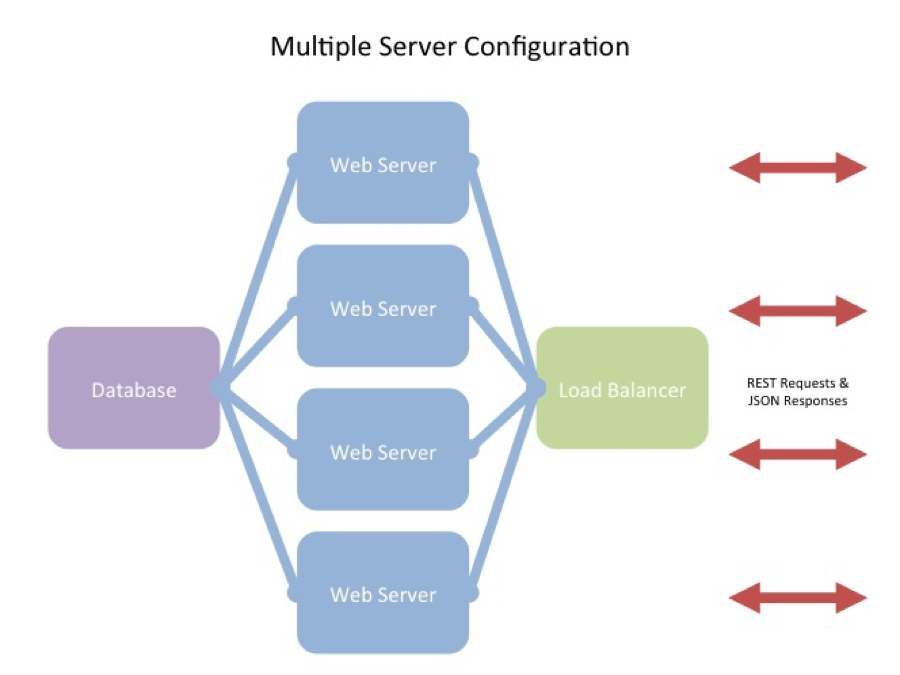
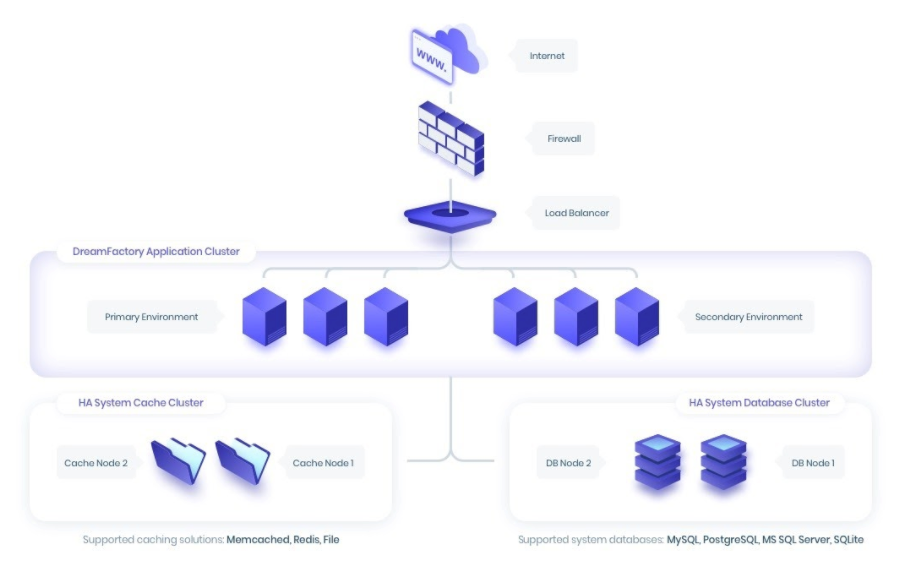
Added better load balance image, added developer README

diff --git a/docs/performance.md b/docs/performance.md
@@ -96,11 +96,17 @@ Finally, scroll down to the following section and uncomment `CACHE_DATABASE` and
     ## Which Redis client to use: predis or phpredis (PHP extension)
     #REDIS_CLIENT=predis
 
-You can leave CACHE_DATABASE set to 2. For the `REDIS_CLIENT` you can leave it set to predis if you've installed the predis/predis package (recommended). By default your Redis Database will be on 0, so be sure to `SELECT` whatever the number is you have set your `CACHE_DATABASE` equal to. Then you can start seeing the `KEYS` populate.
+You can leave `CACHE_DATABASE` set to 2. For the `REDIS_CLIENT` you can leave it set to predis if you've installed the predis/predis package (recommended). By default your Redis Database will be on 0, so be sure to `SELECT` whatever the number is you have set your `CACHE_DATABASE` equal to. Then you can start seeing the `KEYS` populate.
 
 ## Load Balancing Your DreamFactory Environment
 
 You can use a load balancer to distribute API requests among multiple servers. A load balancer can also perform health checks and remove an unhealthy server from the pool automatically. Most large server architectures include load balancers at several points throughout the infrastructure. You can cluster load balancers to avoid a single point of failure. DreamFactory is specifically designed to work with load balancers and all of the various scheduling algorithms. A REST API request can be sent to any one of the web servers at any time and handled in a stateless manner.
+
+The following diagram depicts a typical load-balanced, high-availability environment. Like many HTTP-based applications, DreamFactory can be scaled using a three tier architecture:
+
+* Application tier: These are the servers where one or more DreamFactory instances operate.
+* Caching tier: If you load balance DreamFactory across multiple servers, you will need to use a caching solution such as Redis or Memcached for distributed cache management.
+* Database tier: In a load balanced environment the DreamFactory system database will need to be shared across the instances. You can use MySQL, PostgreSQL, or Microsoft SQL Server for this purpose.
 
 <img src="/images/performance/load-balanced-diagram.png">
 

diff --git a/docs/chapter04.md b/docs/chapter04.md
@@ -23,6 +23,25 @@ You'll be pleased to know DreamFactory supports all of these options through a c
 > Authorization: Basic d2pAd2pnaWxtb3JlLmNvbTpqYXNvbjEyMw==
 > Accept: */*
 
+## Authenticating with Azure Active Directory OAuth
+
+    <?php
+
+    $queryString = $_SERVER['QUERY_STRING'];
+
+    # Create a connection
+    $url = 'https://demo.dreamfactory.com/api/v2/user/session?oauth_callback=true&' . $queryString;
+    $ch = curl_init($url);
+
+    # Setting our options
+    curl_setopt($ch, CURLOPT_POST, 1);
+    curl_setopt($ch, CURLOPT_RETURNTRANSFER, true);
+
+    # Get the response
+    $response = curl_exec($ch);
+    curl_close($ch);
+
+    var_dump(json_decode($response));
 
 ## Authenticating with OpenID Connect
 
@@ -362,6 +381,8 @@ As with authenticated users, you'll pass along a payload that looks like this:
 For more information about managing custom user attributes, check out [this wiki page](http://wiki.dreamfactory.com/DreamFactory/Tutorials/Managing_user_custom_data).
 
 ## Debugging LDAP and Active Directory
+
+You can use the following PHP script to determine whether your host, base DN, and credentials are correct:
 
     <?php
 

diff --git a/DEVELOPER-README.md b/DEVELOPER-README.md
@@ -1,0 +1,25 @@
+# Getting Started with DreamFactory
+
+"Getting Started with DreamFactory" is an online guide to all things DreamFactory. It's built using [VuePress](https://vuepress.vuejs.org/) and hosted on [Netlify](https://www.netlify.com/) at [https://guide.dreamfactory.com](https://guide.dreamfactory.com).
+
+## Getting Started
+
+To contribute, clone the repository:
+
+https://github.com/dreamfactorysoftware/dreamfactory-book
+
+Open a terminal, navigate to the root directory and install the dependencies:
+
+    $ npm install
+
+Next, run this command to display the book in your browser:
+
+    $ vuepress dev
+
+### Adding Images
+
+Images are managed in the `.vuepress/public/images` directory. Keep in mind some operating systems including macOS will automatically hide directories prefixed with a dot. You can force macOS to display them with the hotkey Command + Shift + period.
+
+We've found Markdown to be a bit weird about image placement so we use HTML. Here is an example:
+
+    <img src="/images/performance/load-balanced-diagram.png">

diff --git a/README.md b/README.md
@@ -7,10 +7,10 @@ actionText: Get Started →
 actionLink: /docs/
 features:
 - title: Step by Step Guidance
-  details: Chapter by chapter you will learn about best practices surrounding APIs
+  details: Learn how to build, secure, and deploy APIs.
 - title: Example Applications
-  details: Learn DreamFactory by building real applications in record speeds
+  details: Learn DreamFactory by building real applications quickly.
 - title: Connect to Everything
-  details: Experience how easy it is to generate an API for your favorite databases.
-footer: Copyright © 2018-2019
+  details: See how easy it is to generate an API for your favorite databases.
+footer: Copyright © 2018-2020
 ---
